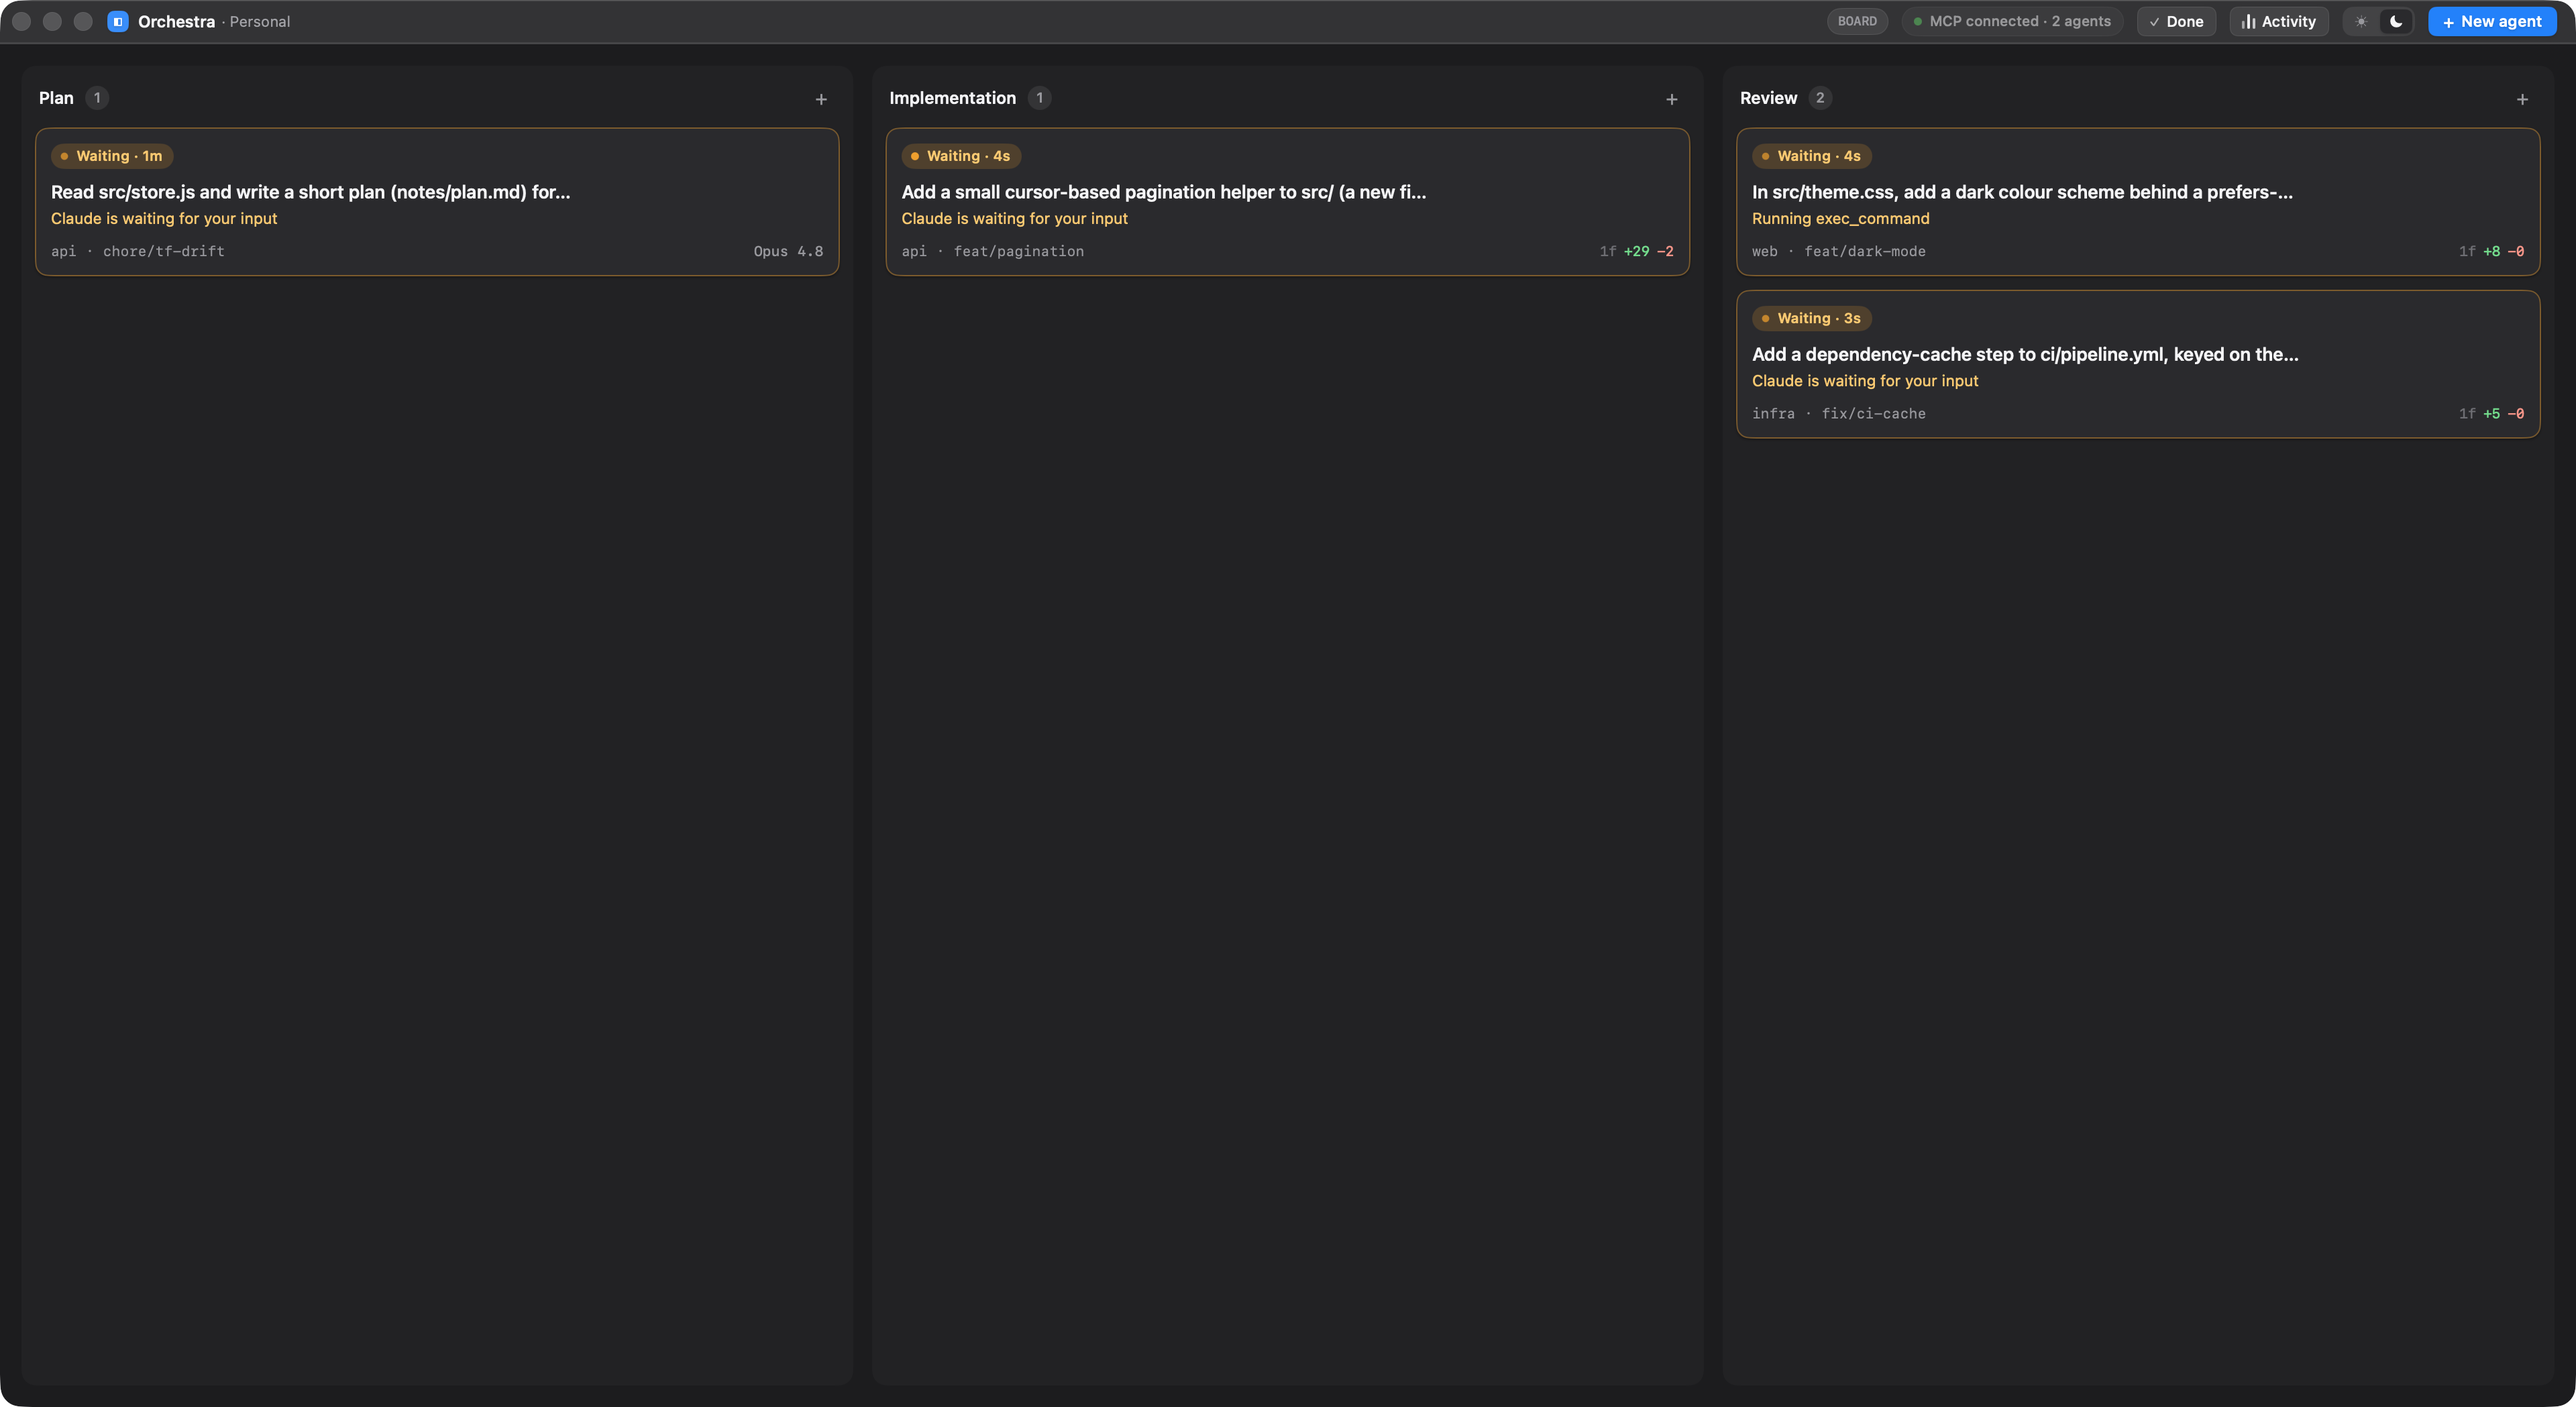
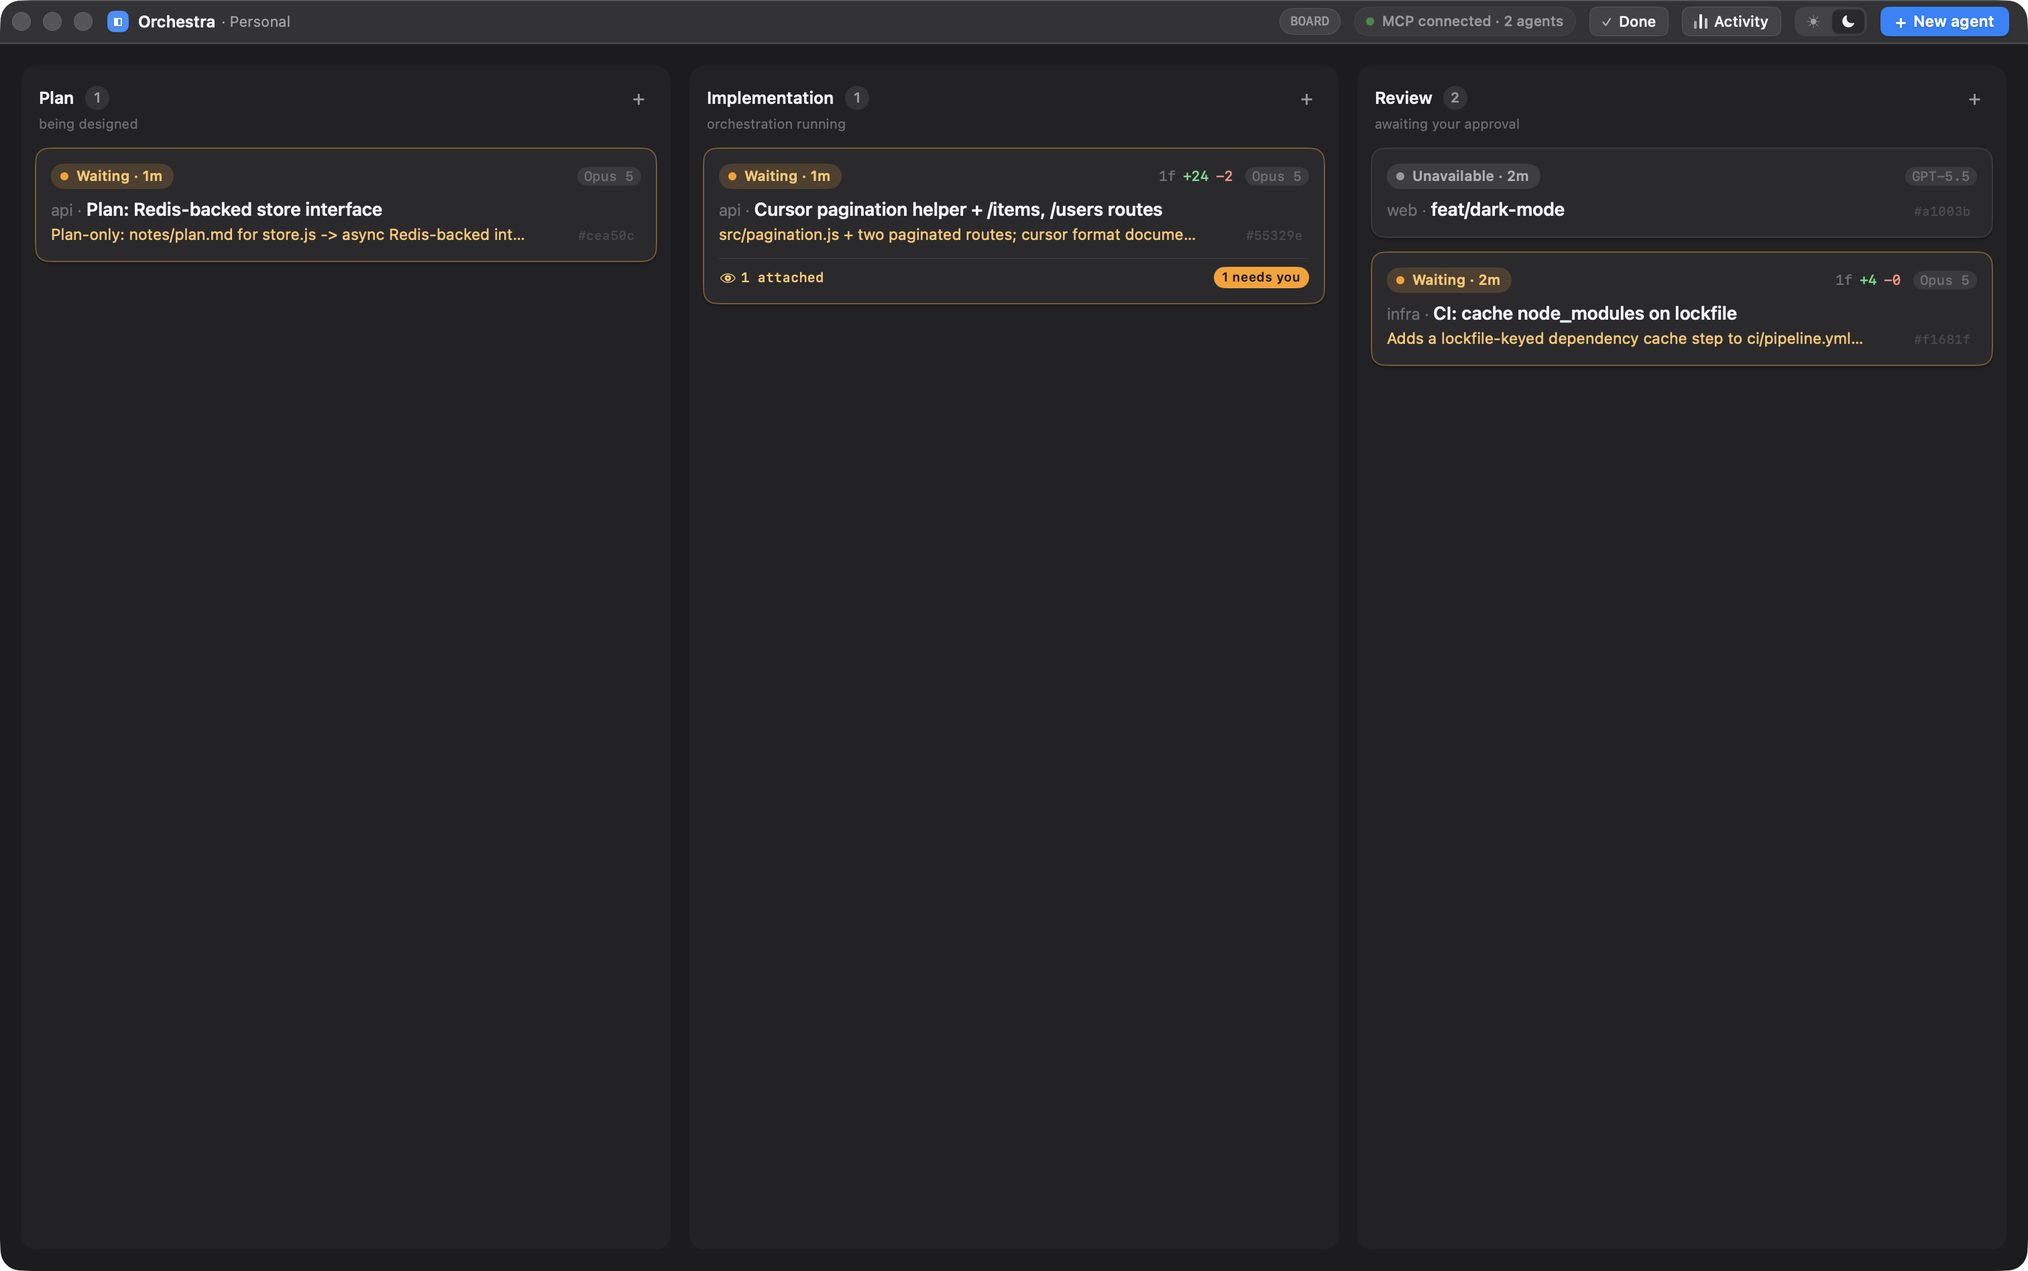
docs: refresh README + manual media against main, fix docs-shots.sh bugs
The README prose was current, but every asset in docs/images/ still showed the
board as it was at commit 190fbbf (2026-07-11) — 594 commits stale. The board-
hierarchy redesign, the attention system, and the document reader had shipped
since, and none of them appeared in a single screenshot or in the README's
"What it does" list.

Fixture (scripts/fixtures/demo-board.json): added a branchless, read-only
reviewer attached to the pagination card (via --cwd + --read-only, spawned
after its target) so the hierarchy/attachment UI — the eye, the attention
chip, the peek row — has something real to render. Extended the pagination
card's prompt to also write notes/pagination.md, so the new Docs tab has a
genuine document to show. Added a docs.png capture (the document reader had
zero screenshots anywhere in the manual) and a keyboard-phase beat that
search-selects the orchestrator root and drills into/out of its subtree, the
newest keyboard axis.

docs-shots.sh had four real, independent bugs, found by actually running it:
- Bare `swift build`/`xcodebuild`, no build mutex, and missing
  -skipPackagePluginValidation — the very first build in a fresh worktree
  failed on "Validate plug-in SwiftTermBuildInfoPlugin" (a fix its siblings
  iso-stack.sh/orch-ui-shot.sh already carry).
- oc() only overrode HOME/ORCHESTRA_SOCK, not ORCHESTRA_TASK_ID — running the
  script from inside an Orchestra card (as this one did) leaked the caller's
[…]

diff --git a/scripts/keydrive.swift b/scripts/keydrive.swift
@@ -3,7 +3,8 @@
 //   swift keydrive.swift windowid <pid>            → prints that pid's largest on-screen window id
 //   swift keydrive.swift keys <pid> <tok> <tok>…   → posts key events to that pid WITHOUT activating it
 //
-// Key tokens: a single char (a,j,/,: …) or a name (cr, esc, space). Prefix with modifiers + "-":
+// Key tokens: a single char (a,j,/,: …) or a name (cr, esc, space, left, right, up, down). Prefix
+// with modifiers + "-":
 //   C- control, M- command, S- shift. e.g.  C-l  M-w  S-h  S-;  (":" is S-;).
 // Events are delivered via CGEvent.postToPid, so the target need not be frontmost (non-intrusive).
 import AppKit
@@ -15,7 +16,10 @@ let vk: [Character: CGKeyCode] = [
     "r":15,"y":16,"t":17,"o":31,"u":32,"i":34,"p":35,"l":37,"j":38,"k":40,"n":45,"m":46,
     "/":44,";":41,".":47,",":43,"1":18,"2":19,"3":20,
 ]
-let named: [String: CGKeyCode] = ["cr":36,"return":36,"esc":53,"escape":53,"space":49,"tab":48]
+let named: [String: CGKeyCode] = [
+    "cr":36,"return":36,"esc":53,"escape":53,"space":49,"tab":48,
+    "left":123,"right":124,"down":125,"up":126,
+]
 
 func keycode(_ base: String) -> CGKeyCode? {
     if let n = named[base.lowercased()] { return n }

diff --git a/docs/08-building-operations.md b/docs/08-building-operations.md
@@ -332,10 +332,10 @@ Three operational consequences of the free tier:
 | `scripts/orch-test.sh` | Run a disposable **isolated** daemon (own `HOME` + tmux socket) to verify daemon/command changes without touching the live app. |
 | `scripts/orch-ui-shot.sh` | Build the app isolated and screenshot it by window id (for UI work). |
 | `scripts/orch-key-demo.sh` | Background **keyboard-navigation** harness: launch an isolated instance seeded with a mock multi-card board (`ORCH_SHOW=demo`, no daemon), then **drive it with synthetic key events posted straight to its PID** (`CGEvent.postToPid` — never foregrounds it, so the live app is untouched) and screenshot the window after each step (`hjkl` select, `g`-go-to, `f` hints, `:` palette, `/` search, `?` help). Proves the [keyboard scheme](07-app-ui.md#keyboard-navigation) fires from real keystrokes. |
-| `scripts/keydrive.swift` | Helper for the above — `windowid <pid>` prints a pid's CoreGraphics window id (to `screencapture -l`); `keys <pid> …` posts a sequence of chords (`j`, `S-l`, `g r`, `S-';'`, `esc`, …) to that pid without activating it. |
+| `scripts/keydrive.swift` | Helper for the above — `windowid <pid>` prints a pid's CoreGraphics window id (to `screencapture -l`); `keys <pid> …` posts a sequence of chords (`j`, `S-l`, `g r`, `S-';'`, `esc`, `left`/`right`/`up`/`down`, …) to that pid without activating it. |
 | `scripts/orch-ux-e2e.sh` | Full **app + daemon** UX e2e on a disposable, isolated instance — combines the two half-harnesses above (the demo app is launched against a *real* isolated daemon, so board actions and workflows drive through the actual UI). Isolates via `$HOME` alone; spawns `orchestrad` directly (never `launchctl` — the fixed `com.orchestra.daemon` label would collide with live) + an isolated `ORCHESTRA_TMUX_SOCKET`. **Concurrency-safe** so many PR cards can run it at once overnight (see below): flags `--run-id ID` (namespace all per-run state; also `RUN_ID` env, default this PID), `--build-only` (prebuild the shared bundle then exit), `--rebuild` (force), `--no-build` (reuse). |
 | `scripts/orch-ux-e2e-concurrency-test.sh` | Proof harness: launches N (default 3) `orch-ux-e2e.sh` runs concurrently and asserts they stay isolated (distinct `$HOME`/socket/tmux/screenshot), all complete (none reaped by a sibling's teardown), and the live daemon is untouched. |
-| `scripts/docs-shots.sh` | Regenerate **every image in `docs/images/`** — the README hero GIF (an orchestrator agent fanning work out over MCP), the keyboard-nav GIF, the board/inspector/diff/spawn stills, and the iPhone shot — from a real isolated stack running **real agents** on throwaway repos (`scripts/fixtures/demo-board.json`). Isolated by the same `$HOME`-is-the-lever contract as `iso-stack.sh`, with the demo orchestrator's `orchestra` MCP server pinned by `ORCHESTRA_SOCK` to the *isolated* daemon, so its `spawn` calls physically cannot reach your live board. Captures by window id; never foregrounds your screen. **These agents run for real and they bill.** Run it after a UI change: `scripts/docs-shots.sh` (add `--keep` to leave the stack up, then `scripts/docs-shots.sh down`). |
+| `scripts/docs-shots.sh` | Regenerate **every image in `docs/images/`** — the README hero GIF (an orchestrator agent fanning work out over MCP), the keyboard-nav GIF (selection, hints, search, palette, and drilling into a root's subtree), the board/inspector/diff/docs/spawn stills, the post-fan-out board, and the iPhone shot — from a real isolated stack running **real agents** on throwaway repos (`scripts/fixtures/demo-board.json`). The fixture spawns an attached read-only reviewer (`--cwd <another card's worktree> --read-only`, a borrowed reviewer) so the hierarchy/attachment UI has something to render. Isolated by the same `$HOME`-is-the-lever contract as `iso-stack.sh`, with the demo orchestrator's `orchestra` MCP server pinned by `ORCHESTRA_SOCK` to the *isolated* daemon, so its `spawn` calls physically cannot reach your live board. Captures by window id; never foregrounds your screen. **These agents run for real and they bill.** Run it after a UI change: `scripts/docs-shots.sh` (add `--keep` to leave the stack up, then `scripts/docs-shots.sh down`). |
 | `scripts/gifify.swift` | Assemble PNG frames into an animated GIF with macOS **ImageIO** (`CGImageDestination`) — so the doc images need no `ffmpeg`/ImageMagick/`gifski`. Used by `docs-shots.sh`. |
 | `scripts/agent-auth.sh` | `status` — can an agent in an **isolated `$HOME`** actually authenticate? Every isolated harness overrides `$HOME`, which on macOS hides the login **Keychain** where Claude Code keeps its credentials (see [Real agents in isolated harnesses](#real-agents-in-isolated-harnesses)). `scripts/lib/agent-auth.sh` fixes that for all of them; this verifies it. |
 | `scripts/orch-rpc.py` | Speak raw JSON-RPC to a socket (debugging the control plane). |

diff --git a/README.md b/README.md
@@ -54,6 +54,13 @@ intercepts keys meant for the live agent terminal:
 - **Four card modes.** **Worktree** (isolated git branch), **Borrowed/Freeform** (run in any existing
   directory you point at), **Scratch** (a fresh throwaway dir Orchestra makes and deletes), and a
   **Read-only** access mode that lets an agent read/search/`git` but physically cannot write.
+- **Related cards group into a hierarchy.** A card that spawned another, or a read-only reviewer
+  attached to one, groups under a root. Select the root to see its subordinates as inline rows.
+  Drill in (`→`) to re-scope the board to that subtree
+  ([Hierarchy](docs/07-app-ui.md#hierarchy-roots-peek-and-drill)).
+- **The board shows what needs you.** A solid amber chip marks a card that is genuinely blocked on a
+  human action — a question, a permission, or a stalled run. Every other signal on a card stays
+  muted, so amber always means "look here" ([the attention system](docs/09-design-decisions.md#the-attention-system)).
 - **Live state, provider-owned.** A card's lifecycle stays separate from its current provider state:
   `running`, `waiting`, or `unavailable`. Claude supplies strictly correlated hook observations (with a
   narrow provider-native idle repair), Codex supplies app-server thread/turn state, and a newly live card remains
@@ -63,6 +70,9 @@ intercepts keys meant for the live agent terminal:
   and the inspector has a read-only **Diff** view (difftastic-rendered when `difft` is installed, git's
   colored diff otherwise; a working / branch baseline toggle) — so you can review an agent's changes
   without leaving Orchestra for Zed.
+- **Read and comment on a card's docs.** The inspector's **Docs** tab renders a card's markdown
+  files in place. Select a passage and leave a comment. It lands in the agent's inbox, addressed to
+  the exact passage you picked ([the document reader](docs/07-app-ui.md#the-document-reader)).
 - **Crash & reboot recovery.** The daemon tracks each agent's native session id and eagerly resumes
   sessions after a crash or reboot; unrecoverable cards surface a Recovery panel. Even a finished card
   isn't terminal — **Reopen** a Done card and the daemon recreates its worktree and resumes the agent.

diff --git a/docs/07-app-ui.md b/docs/07-app-ui.md
@@ -49,6 +49,8 @@ view so the inspector overlay renders on top of it.
 
 ### Hierarchy: roots, peek, and drill
 
+![A root card after a real fan-out: the L4 subtree line summarizes its lineage children and attached reviewer](images/board-fanout.png)
+
 Related cards group under one root, derived — never stored — from two relations the cards already carry:
 
 - **Lineage** (the citizenship axis): a worktree card's `parentBranch` resolves to the live card owning
@@ -385,6 +387,8 @@ The **agent chrome** stacks, top to bottom:
 5. a **shell panel** — either the shell tabs, or a "New terminal" button when none are open.
 ### The document reader
 
+![The document reader: a card's markdown documents, read in place](images/docs.png)
+
 The **Docs** tab reads the markdown documents in a card's working directory, and lets you comment on a
 passage without leaving the board.
 
@@ -665,7 +669,7 @@ The shipped bindings:
 | `g` then `p`/`i`/`r`/`f`/`a`/`d`/`s` | Go to Plan / Implementation / Review / Freeform / Activity / Done / Settings |
 | `c` | New card (opens the spawn sheet) |
 | `H` / `L` | **Carry** the selected card one column left / right (shift = grab the card) |
-| `a` · `o` · `O` · `d` · `I` · `t` | Archive · open the card's **notes** (Obsidian vault) · View changes in Zed · toggle Agent/Diff view · open the inbox editor · new shell tab |
+| `a` · `o` · `O` · `d` · `I` · `t` | Archive · open the card's **notes** (Obsidian vault) · View changes in Zed · cycle the inspector Agent → Diff → Docs view · open the inbox editor · new shell tab |
 | `y c` / `y t` / `y p` / `y i` | Copy chat link / tmux target / cwd path / card reference |
 | `/` · `n` / `N` | **Search / filter cards** — opens the `SearchBar` (matches title / branch / repo); typing dims non-matches and jumps to the first hit, `Enter` commits back to the board where `n`/`N` cycle matches, `Esc` clears |
 | `f` | **Link-hints** — overlay a short home-row label on every visible card; type the label to jump to it (`Esc` aborts) |
